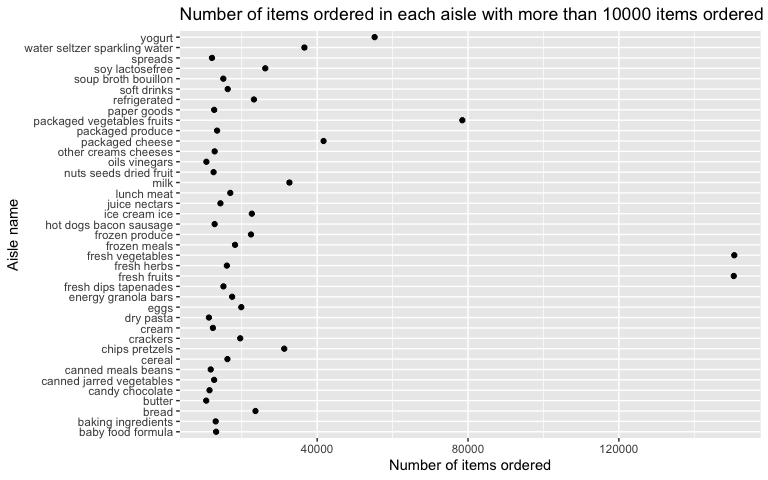
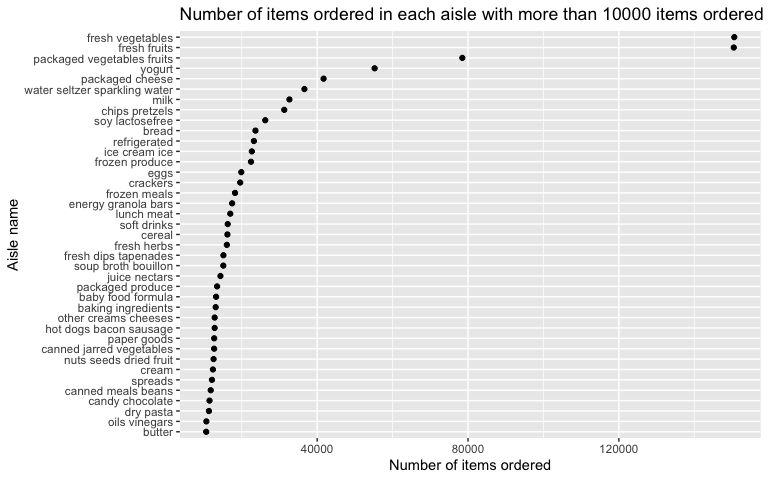
Start working on problem 2.

diff --git a/p8105_hw3_jc5314.md b/p8105_hw3_jc5314.md
@@ -5,6 +5,8 @@ Junxian Chen (jc5314)
 
 # Problem 1
 
+Load the libraries and data:
+
 ``` r
 library(tidyverse)
 library(p8105.datasets)
@@ -30,8 +32,7 @@ aisle_plot =
   instacart %>% 
   count(aisle, name = 'number_of_items_ordered') %>%
   filter(number_of_items_ordered > 10000) %>%
-  arrange(number_of_items_ordered) %>%
-  ggplot(aes(x = number_of_items_ordered, y = aisle)) + 
+  ggplot(aes(reorder(aisle, number_of_items_ordered), x = number_of_items_ordered)) + 
     geom_point() +
     xlab('Number of items ordered') +
     ylab('Aisle name') +
@@ -125,3 +126,111 @@ Table 2: Mean hour of the day at which the product was ordered on each
 day of the week.
 
 # Problem 2
+
+``` r
+data("brfss_smart2010")
+```
+
+Clean the data:
+
+``` r
+brfss_dat = 
+  brfss_smart2010 %>% 
+  janitor::clean_names() %>% 
+  rename(state = locationabbr, location = locationdesc) %>% 
+  filter(
+    topic == 'Overall Health',
+    response %in% c('Poor', 'Fair', 'Good', 'Very good', 'Excellent')) %>% 
+  mutate(
+    response = factor(response, levels = c('Poor', 'Fair', 'Good', 'Very good', 'Excellent'))
+  )
+```
+
+  - In 2002, which states were observed at 7 or more locations? What
+    about in 2010?
+
+For 2002:
+
+``` r
+brfss_dat %>% 
+  filter(year == '2002') %>% 
+  group_by(state, location) %>% 
+  summarize() %>% 
+  summarize(number_of_locations = n()) %>% 
+  filter(number_of_locations >= 7)
+```
+
+    ## # A tibble: 6 x 2
+    ##   state number_of_locations
+    ##   <chr>               <int>
+    ## 1 CT                      7
+    ## 2 FL                      7
+    ## 3 MA                      8
+    ## 4 NC                      7
+    ## 5 NJ                      8
+    ## 6 PA                     10
+
+Therefore, based on the results, in 2002 the states that were observed
+at 7 or more locations were: CT, FL, MA, NC, NJ, and PA.
+
+For 2010:
+
+``` r
+brfss_dat %>% 
+  filter(year == '2010') %>% 
+  group_by(state, location) %>% 
+  summarize() %>% 
+  summarize(number_of_locations = n()) %>% 
+  filter(number_of_locations >= 7)
+```
+
+    ## # A tibble: 14 x 2
+    ##    state number_of_locations
+    ##    <chr>               <int>
+    ##  1 CA                     12
+    ##  2 CO                      7
+    ##  3 FL                     41
+    ##  4 MA                      9
+    ##  5 MD                     12
+    ##  6 NC                     12
+    ##  7 NE                     10
+    ##  8 NJ                     19
+    ##  9 NY                      9
+    ## 10 OH                      8
+    ## 11 PA                      7
+    ## 12 SC                      7
+    ## 13 TX                     16
+    ## 14 WA                     10
+
+Therefore, based on the results, in 2002 the states that were observed
+at 7 or more locations were: CA, CO, FL, MA, MD, NC, NE, NJ, NY, OH, PA,
+SC, TX, and WA.
+
+``` r
+excellent_dat =   
+  brfss_dat %>% 
+  filter(response == 'Excellent') %>% 
+  group_by(year, state) %>% 
+  mutate(data_value_mean = mean(data_value, na.rm = TRUE)) %>% 
+  select(year, state, data_value_mean) %>% 
+  distinct()
+```
+
+``` r
+spaghetti_plot = 
+  excellent_dat %>% 
+  ggplot(aes(x = year, y = data_value_mean, color = state)) +
+  geom_line() +
+  xlab('Year') + 
+  ylab('Mean data value')
+
+spaghetti_plot
+```
+
+![](p8105_hw3_jc5314_files/figure-gfm/unnamed-chunk-10-1.png)<!-- -->
+
+``` r
+data_value_plot = 
+  brfss_dat %>% 
+  filter(year %in% c(2006, 2010))
+```
